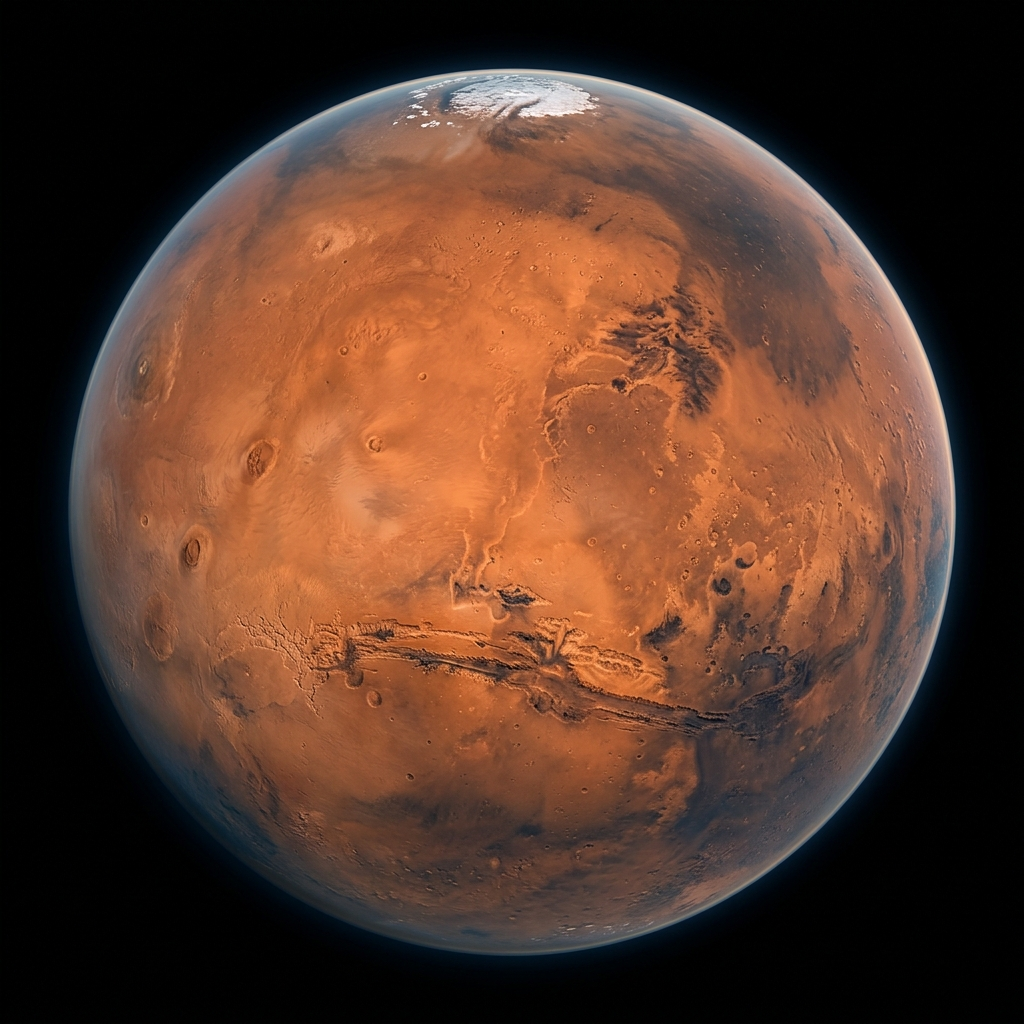
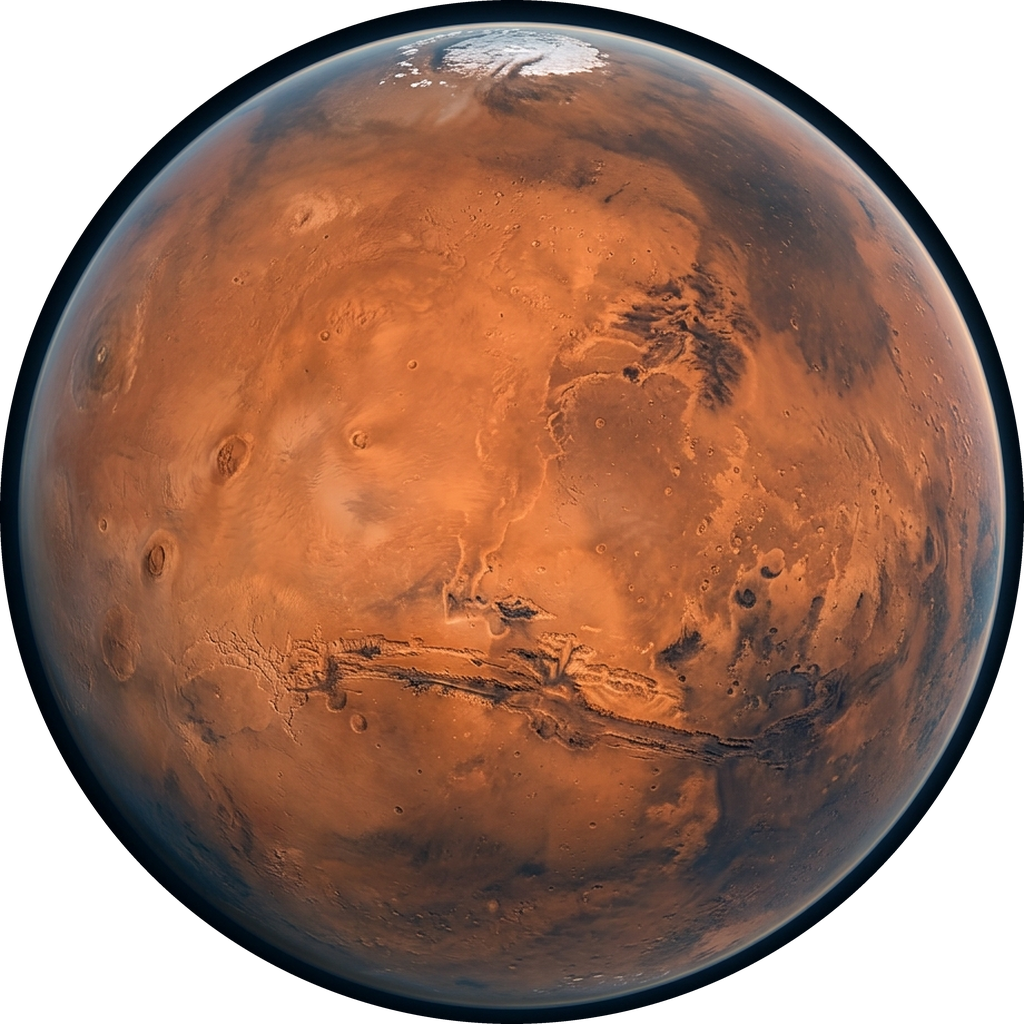
Atualizações no Observatório - Borda dos plantetas corrigidas.

diff --git a/static/js/index.js b/static/js/index.js
@@ -1056,12 +1056,12 @@ function desenharObservatorio() {
                     const drawH = size * 2.2;
                     ctx.drawImage(imgAstro, pos.x - drawW / 2, pos.y - drawH / 2, drawW, drawH);
                 } else {
-                    // Recorta a imagem em círculo perfeito e ajusta as dimensões sem bordas pretas
+                    // Recorta a imagem em círculo e aplica zoom para eliminar quaisquer bordas
                     ctx.save();
                     ctx.beginPath();
                     ctx.arc(pos.x, pos.y, size, 0, 2 * Math.PI);
                     ctx.clip();
-                    const drawSize = size * 2.05;
+                    const drawSize = size * 2.5;
                     ctx.drawImage(imgAstro, pos.x - drawSize / 2, pos.y - drawSize / 2, drawSize, drawSize);
                     ctx.restore();
                 }
